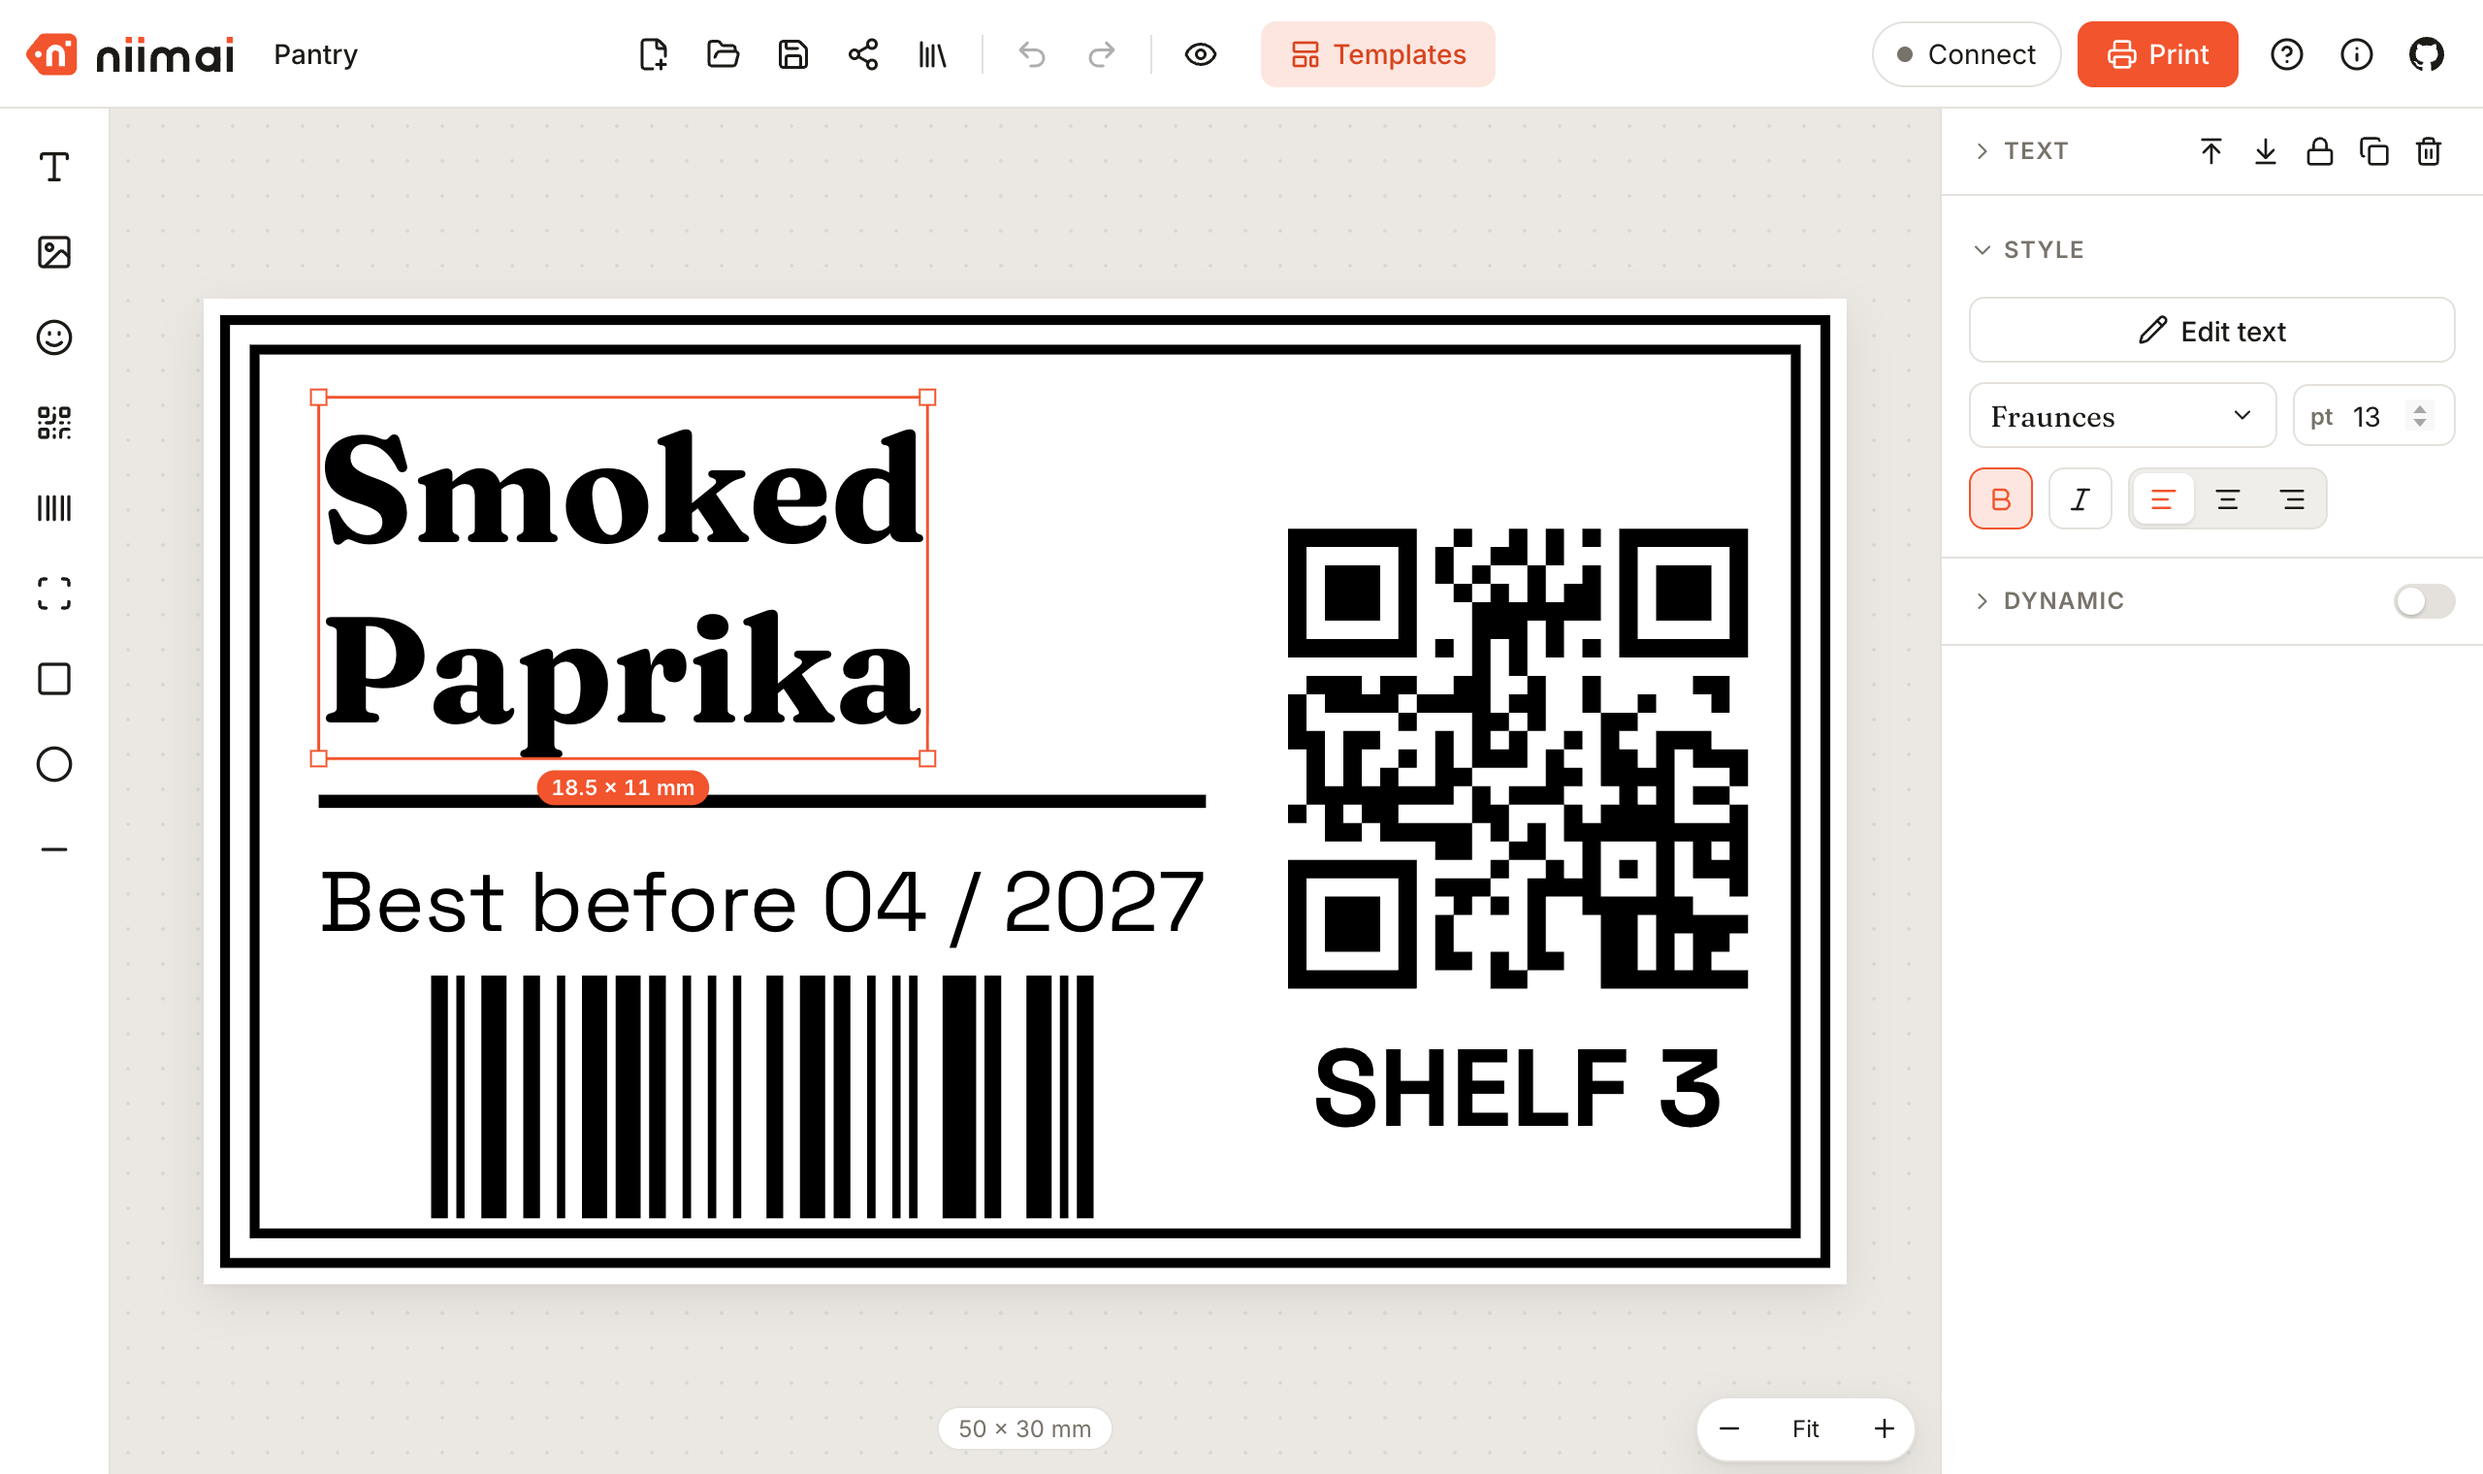
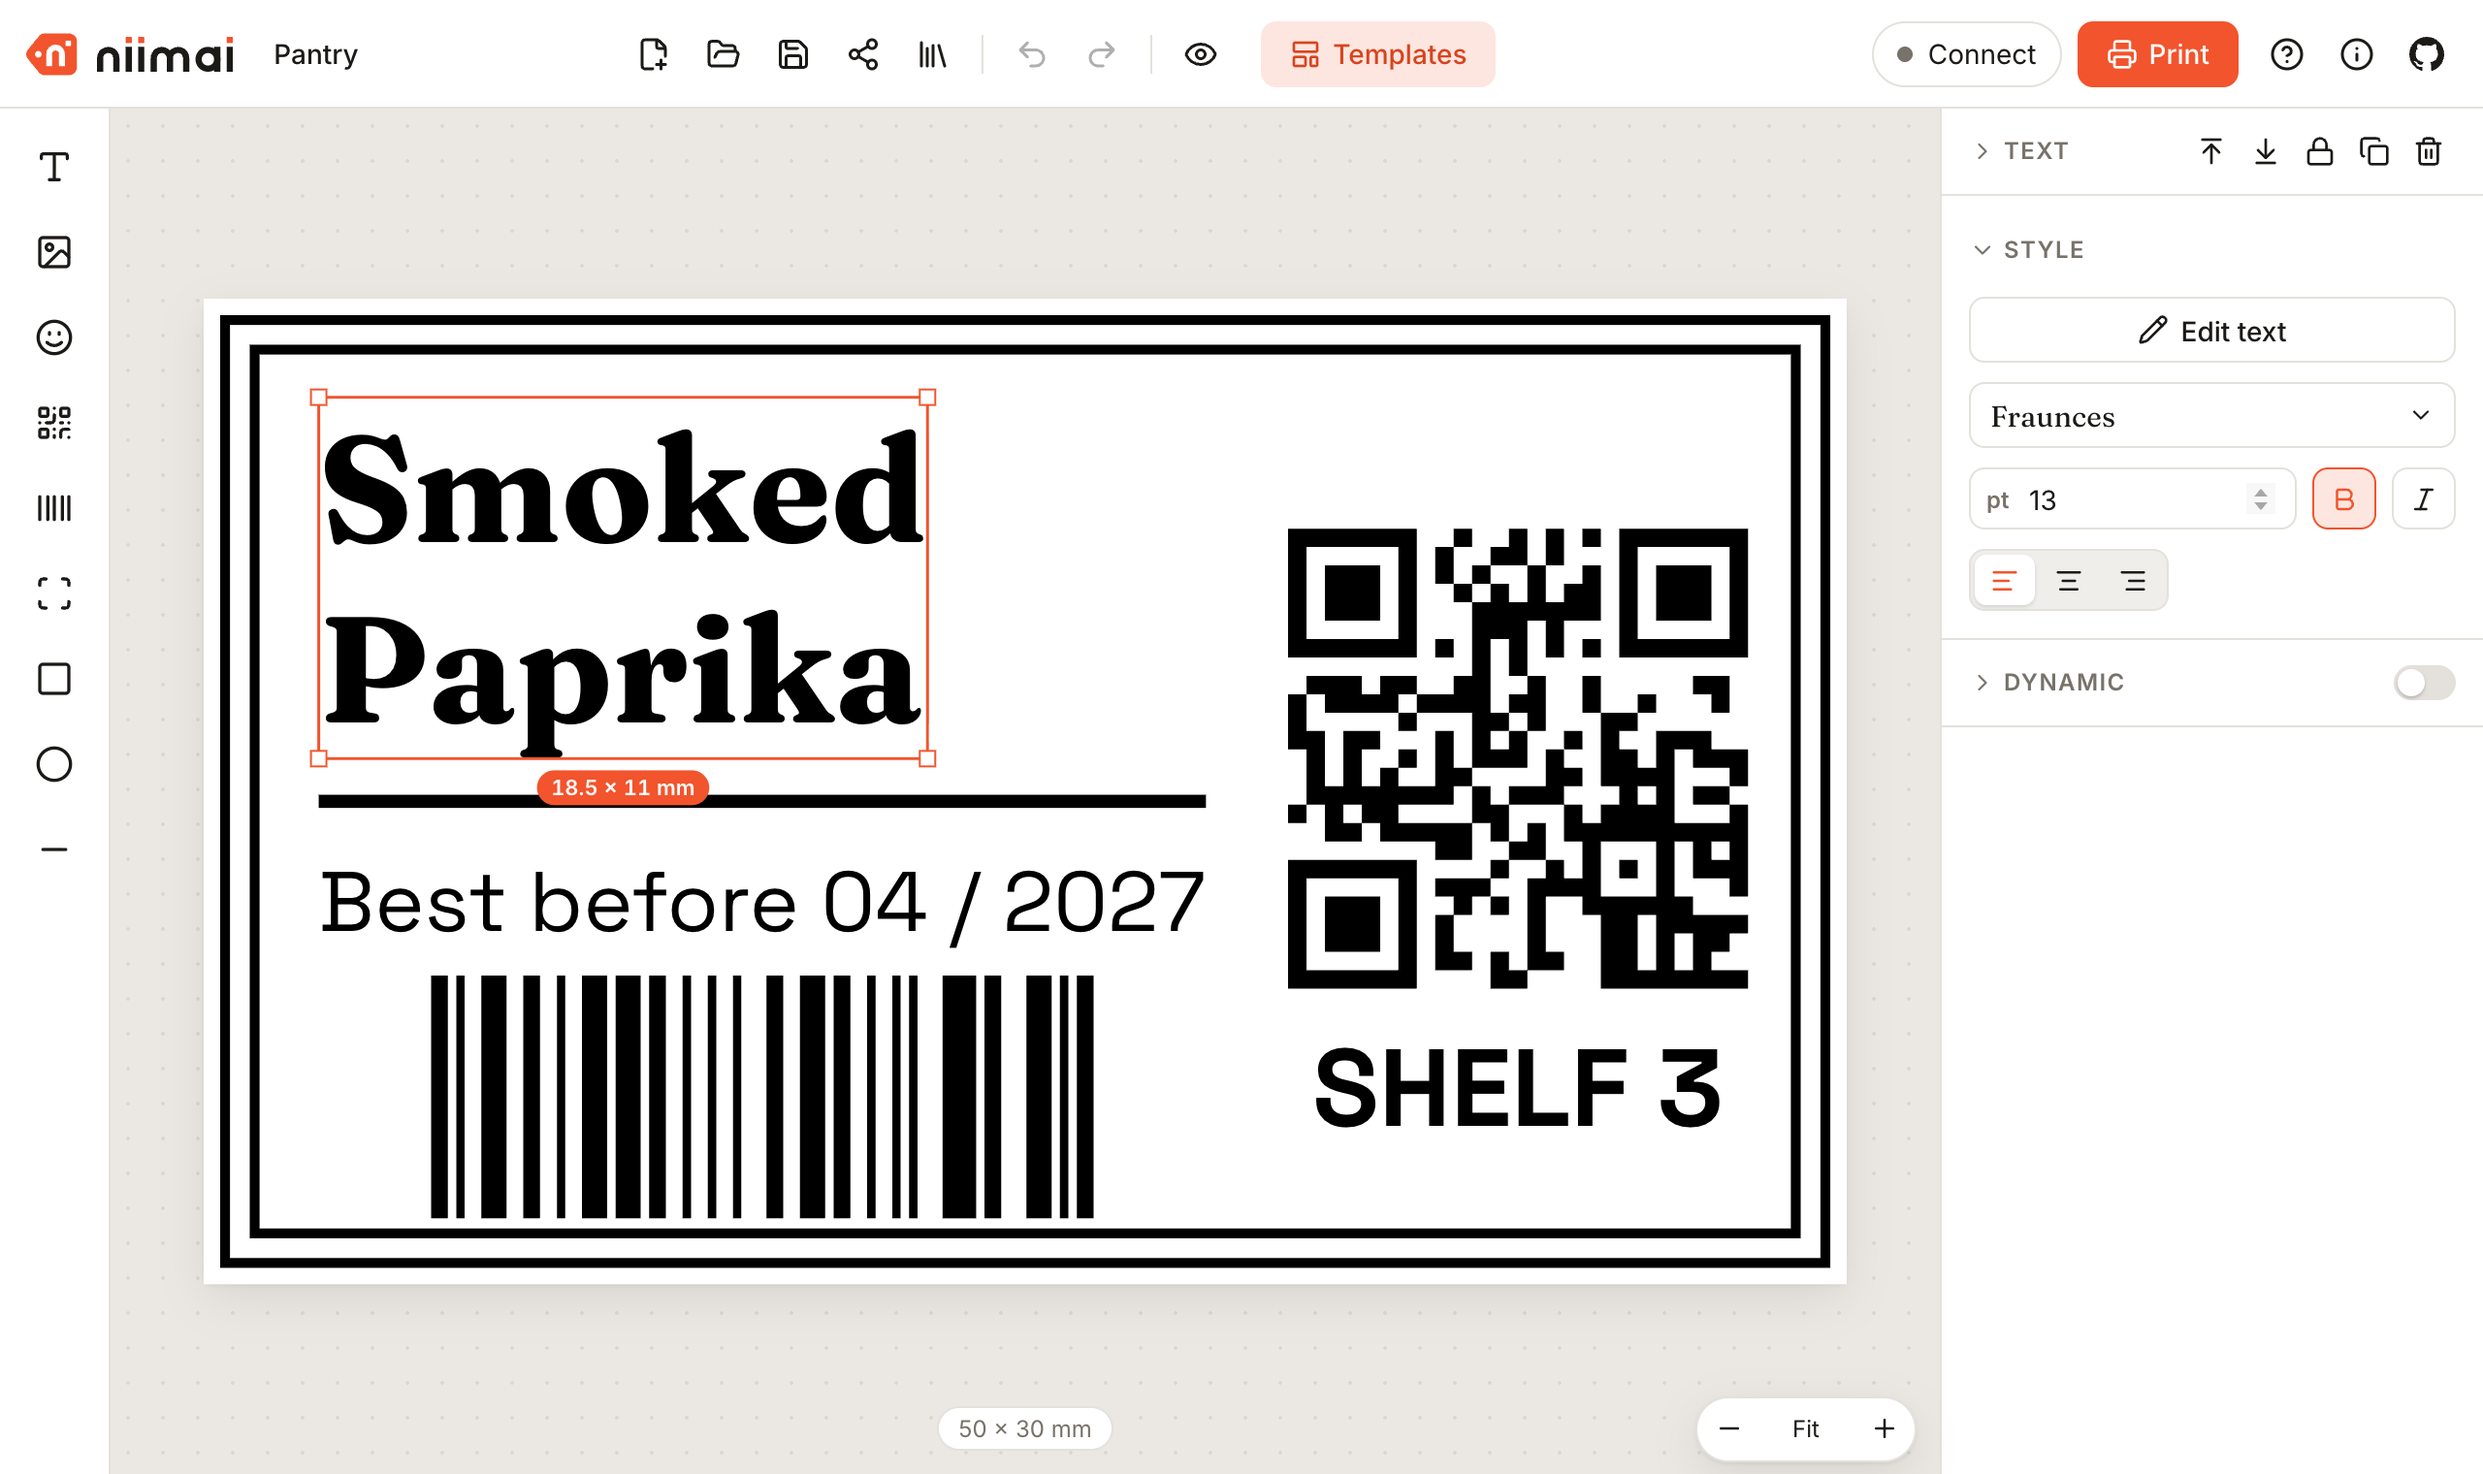
Font picker spans the side panel; long font names end in an ellipsis
Long names wrapped onto a second line beside the size field. The picker
now has its own row, the size field sits with Bold and Italic, and
alignment goes below. Screenshots refreshed.

Changed region(s): [[0.7812, 0.3092, 0.875, 0.4947], [0.9062, 0.2474, 0.9688, 0.3711], [0.9375, 0.3711, 1.0, 0.4947]]

diff --git a/src/components/Inspector.tsx b/src/components/Inspector.tsx
@@ -402,13 +402,13 @@ export function Inspector({ doc, selected, selection = [], onUpdateMany = () => 
               <Pencil size={16} /> Edit text
             </button>
           )}
+          <FontPicker value={el.fontFamily} onChange={(fontFamily) => set({ fontFamily })} />
           <div className="font-size-row">
-            <FontPicker value={el.fontFamily} onChange={(fontFamily) => set({ fontFamily })} />
             <NumberField label="Font size" icon="pt" value={shownFontSize(el)} min={1} max={400} step={1} onChange={(fontSize) => set({ fontSize, autoFit: false }, 'fontSize')} />
-          </div>
-          <div className="row">
             <Toggle label="Bold" icon={<Bold size={15} />} checked={el.bold} onChange={(bold) => set({ bold })} />
             <Toggle label="Italic" icon={<Italic size={15} />} checked={el.italic} onChange={(italic) => set({ italic })} />
+          </div>
+          <div className="row">
             <Segmented
               label="Alignment"
               value={el.align}

diff --git a/src/styles.css b/src/styles.css
@@ -1171,6 +1171,7 @@ kbd {
 /* Font picker */
 .font-trigger {
   display: flex;
+  min-width: 0;
   align-items: center;
   justify-content: space-between;
   gap: 8px;
@@ -1182,6 +1183,16 @@ kbd {
   background: var(--surface);
   cursor: pointer;
   font-size: 15px;
+}
+/* Long font names end in an ellipsis on one line. */
+.font-trigger > span {
+  min-width: 0;
+  overflow: hidden;
+  text-overflow: ellipsis;
+  white-space: nowrap;
+}
+.font-trigger > svg {
+  flex-shrink: 0;
 }
 .popover {
   background: var(--surface);
@@ -3813,7 +3824,7 @@ button.pd-setup + .pd-setup {
 }
 .font-size-row {
   display: grid;
-  grid-template-columns: minmax(0, 1fr) 84px;
+  grid-template-columns: minmax(0, 1fr) auto auto;
   gap: 8px;
   align-items: center;
 }
